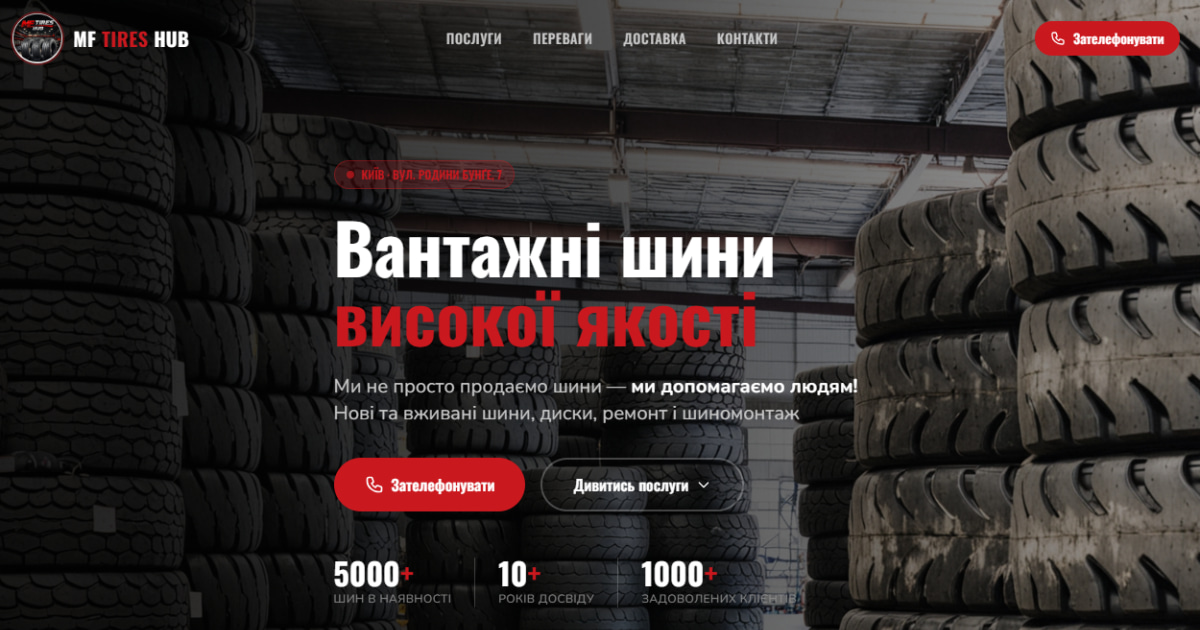
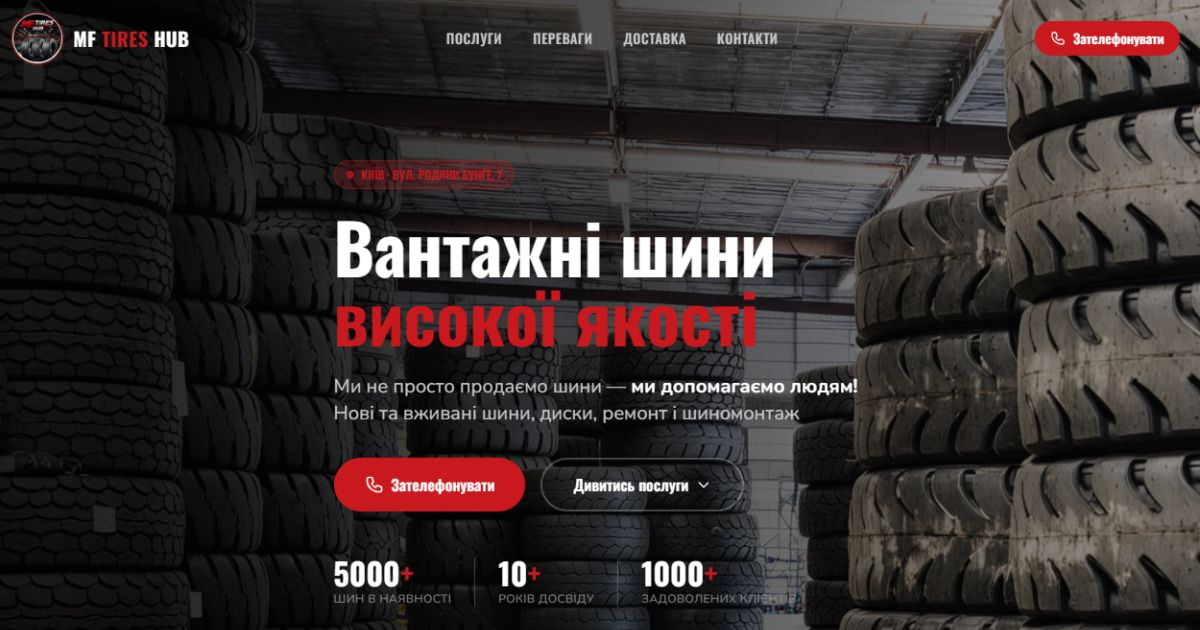
Package 2: image optimization (-1.35 MB)
- hero: WebP 233 KB (was JPEG 1444 KB) via <picture> with jpg fallback,
  preload + fetchpriority=high (LCP element), width/height attrs
- logo: WebP 128x128 4.7 KB (was JPEG 1070x1070 125 KB), header + footer
- og-image: recompressed JPEG 107 KB (was 214 KB), kept JPEG for
  messenger preview compatibility
- .hero-picture CSS rule (purged Tailwind build lacks .block utility)

hero.jpg kept: <picture> fallback + CTA section bg.
logo.jpg kept: referenced by pending JSON-LD snippet.

diff --git a/index.html b/index.html
@@ -31,6 +31,9 @@
   <link rel="icon" type="image/png" href="favicon.png" />
   <link rel="apple-touch-icon" href="favicon.png" />
 
+
+  <link rel="preload" as="image" href="img/hero.webp" type="image/webp" fetchpriority="high" />
+
   
   <script type="application/ld+json">
   {
@@ -79,7 +82,7 @@
 
         
         <a href="#" class="flex items-center gap-3 group" aria-label="MF Tires Hub — головна">
-          <img src="img/logo.jpg" alt="MF Tires Hub логотип" width="52" height="52" loading="eager"
+          <img src="img/logo.webp" alt="MF Tires Hub логотип" width="52" height="52" loading="eager"
                class="rounded-full ring-2 ring-brand-red/40 group-hover:ring-brand-red transition-all duration-300 object-cover" />
           <span class="font-display text-xl font-bold tracking-wide hidden sm:block">
             MF <span class="text-brand-red">TIRES</span> HUB
@@ -127,7 +130,12 @@
     
     <section id="hero" class="relative min-h-screen flex items-center overflow-hidden" aria-label="Головний банер">
       <div class="absolute inset-0 z-0">
-        <img src="img/hero.jpg" alt="Склад вантажних шин MF Tires Hub у Києві" class="w-full h-full object-cover" loading="eager" />
+        <picture class="hero-picture">
+          <source srcset="img/hero.webp" type="image/webp" />
+          <img src="img/hero.jpg" alt="Склад вантажних шин MF Tires Hub у Києві"
+               width="1760" height="1176" class="w-full h-full object-cover"
+               loading="eager" fetchpriority="high" />
+        </picture>
         <div class="absolute inset-0 bg-gradient-to-r from-black/90 via-black/70 to-black/30"></div>
         <div class="absolute inset-0 bg-noise opacity-30"></div>
       </div>
@@ -699,7 +707,7 @@ fill="#A6A9AE" stroke="none">
 
         <div>
           <div class="flex items-center gap-3 mb-4">
-            <img src="img/logo.jpg" alt="MF Tires Hub" width="48" height="48" loading="lazy" class="rounded-full ring-2 ring-brand-red/30" />
+            <img src="img/logo.webp" alt="MF Tires Hub" width="48" height="48" loading="lazy" class="rounded-full ring-2 ring-brand-red/30" />
             <span class="font-display text-lg font-bold">MF <span class="text-brand-red">TIRES</span> HUB</span>
           </div>
           <p class="text-brand-muted text-sm leading-relaxed mb-4">

diff --git a/css/main.css b/css/main.css
@@ -510,6 +510,16 @@ body {
 }
 
 
+/* ---- Hero <picture> wrapper ----
+   <picture> інлайновий за замовчуванням; без block/розмірів
+   фонове фото hero не розтягнеться на всю секцію */
+.hero-picture {
+  display: block;
+  width: 100%;
+  height: 100%;
+}
+
+
 /* ---- Тонкий скролбар у flip-back ---- */
 .flip-card-back::-webkit-scrollbar {
   width: 3px;
